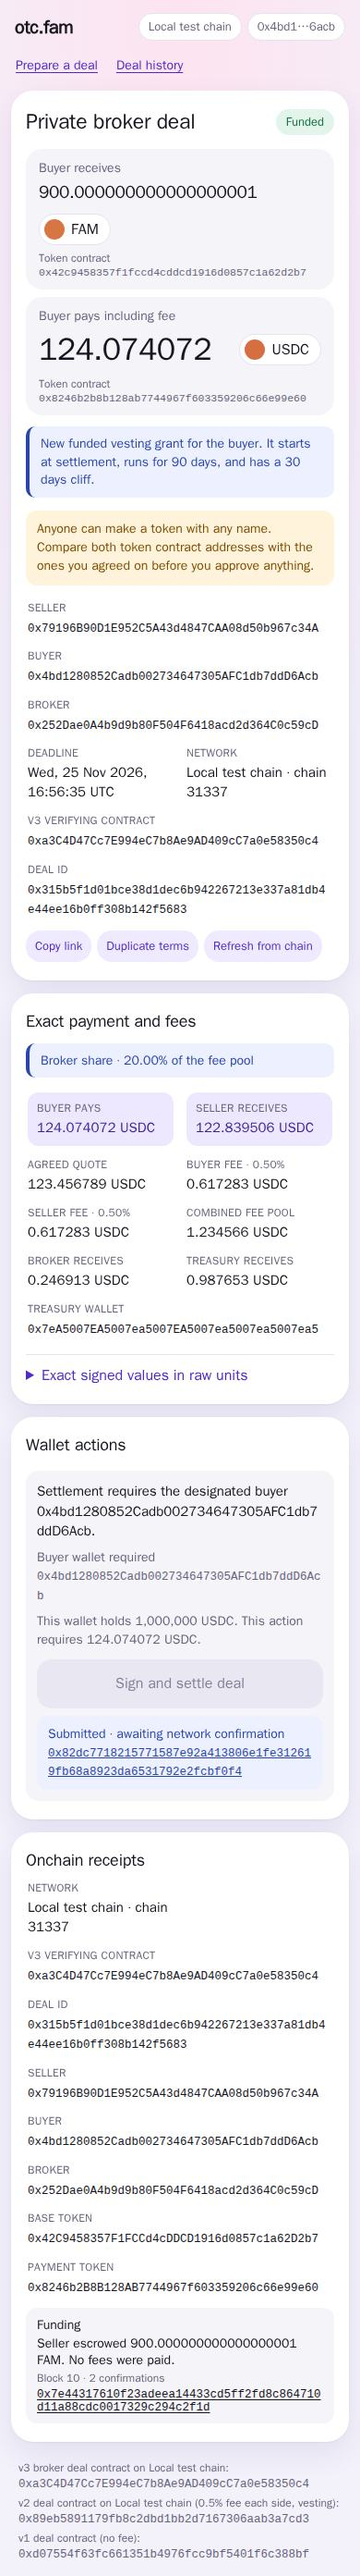
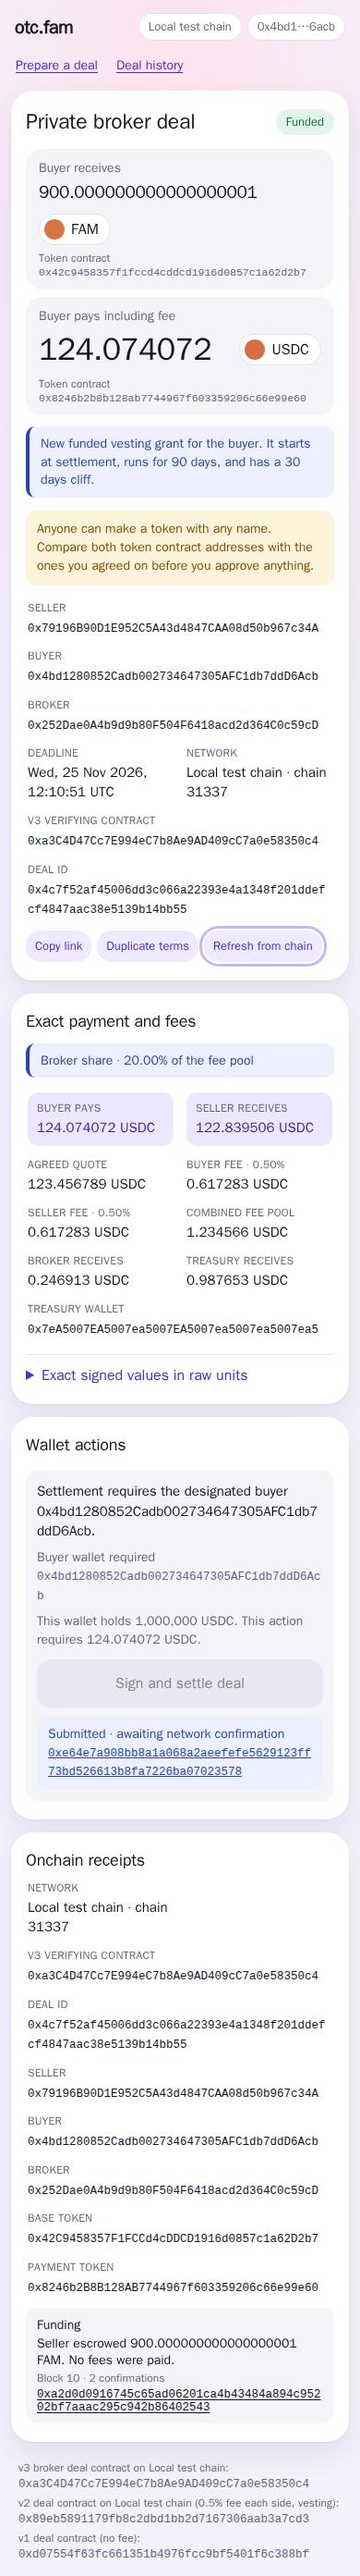
Add reproducible broker receipt and reload evidence

diff --git a/evidence/round-3/README.md b/evidence/round-3/README.md
@@ -2,21 +2,31 @@
 
 The scenarios use a local chain with independent broker, seller, buyer and stranger fixture wallets. The browser opens each counterparty’s copy of the link in a fresh profile.
 
+From the root of a clean checkout, use Node.js 22 or later with Chromium's system libraries installed.
+On Linux, use `npx playwright install --with-deps chromium` in place of the browser install if the system libraries are missing.
+The tests start their own local chain and browser. They use fixture wallets and a loopback RPC.
+
 ```sh
-npm ci
+npm ci --ignore-scripts
 npx playwright install chromium
 npm run check
-npm test
-BROKER_EVIDENCE=evidence/round-3 node --test test/v3-page.test.mjs
+OTC_TEST_BROWSER_TIMEOUT=60000 npm test
+
+capture_dir="$(mktemp -d)"
+OTC_TEST_BROWSER_TIMEOUT=60000 BROKER_EVIDENCE="$capture_dir" \
+  node --test --test-concurrency=1 test/v3-contract.test.mjs test/v3-page.test.mjs > "$capture_dir/test-output.txt" 2>&1
+cat "$capture_dir/test-output.txt"
+cat "$capture_dir/balance-deltas.md"
+printf 'Screenshots and test output are in %s\n' "$capture_dir"
 ```
 
 | Requirement | Reproduce |
 | --- | --- |
 | R3-01 seller funding and buyer settlement | Frozen Round 3 check 1 and the four browser scenarios for immediate delivery and vesting at 390px and 1440px. Creation and wallet-free buyer preview make no signing or transaction requests. |
 | R3-02 exact authority and replay | Frozen check 2 and `test/v3-contract.test.mjs`. Digest checks cover every signed field, both domain separators, the named actors, expiry, nonce reuse after refund and ERC-1271. |
-| R3-03 exact fees and rollback | Frozen checks 3 and 4 assert raw token balance deltas for the four fixtures below and no payment or fees on rejected settlement and refund. |
+| R3-03 exact fees and rollback | Frozen checks 3 and 4 verify balances. The local contract test snapshots [actual balance deltas](balance-deltas.md) for the four fee fixtures, rejected settlement and refund. |
 | R3-04 delivery and grants | Frozen checks 4 and 5, the fixed-start test and the browser tests compare escrow, direct delivery, vault backing, beneficiary claims and the settlement receipt. |
-| R3-05 role history and recovery | The browser suite covers copying and duplicating, expiry and refund, a stranger’s empty history, wrong account and chain, rejected signature with keyboard focus restored, reload while pending, and reload after settlement. |
+| R3-05 role history and recovery | The browser suite covers copying and duplicating, expiry and refund, a stranger’s empty history, wrong account and chain, rejected signature with keyboard focus restored, confirmed funding through expiry, reload during a stalled lookup, and mined replacement with an exact verified nonce. |
 
 ## Exact USDC fixture amounts
 
@@ -40,8 +50,12 @@ USDC in the fixture has six decimals. Every entry in the table is in raw units. 
 | Unrelated wallet and wrong chain | [Wallet](immediate-05-wrong-wallet-390.jpg), [chain](immediate-06-wrong-chain-390.jpg) | [Wallet](immediate-05-wrong-wallet-1440.jpg), [chain](immediate-06-wrong-chain-1440.jpg) |
 | Immediate settlement receipt after reload | [Phone](immediate-08-settled-receipt-390.jpg) | [Desktop](immediate-08-settled-receipt-1440.jpg) |
 | Vesting receipt and grant | [Phone](vesting-08-settled-receipt-390.jpg) | [Desktop](vesting-08-settled-receipt-1440.jpg) |
-| Broker history from onchain events | [Phone](vesting-10-history-settled-390.jpg) | [Desktop](vesting-10-history-settled-1440.jpg) |
+| Reload while the settlement nonce lookup is stalled | [Phone](vesting-07-reloaded-pending-390.jpg) | [Desktop](vesting-07-reloaded-pending-1440.jpg) |
+| Broker history with confirmed funding | [Phone](history-01-funded-390.jpg) | [Desktop](history-01-funded-1440.jpg) |
+| Broker history after expiry | [Phone](history-02-expired-390.jpg) | [Desktop](history-02-expired-1440.jpg) |
+| Broker history with confirmed refund | [Phone](history-03-refunded-390.jpg) | [Desktop](history-03-refunded-1440.jpg) |
+| Broker history with confirmed settlement | [Phone](vesting-10-history-settled-390.jpg) | [Desktop](vesting-10-history-settled-1440.jpg) |
 
-The [pending transaction after reload](vesting-07-reloaded-pending-390.jpg) is shown before the test mines its block. The local receipt uses a fixture explorer URL to exercise the link format.
+The funding hash stays the same when the deal expires. The history switches to the refund hash once the refund is confirmed. The pending screenshot shows the original hash after reload, with settlement disabled until the fixture mines that transaction. The screenshots use a fixture explorer URL to show the link format.
 
 [Round 3 contract and browser test output](results.txt)

diff --git a/evidence/round-3/balance-deltas.md b/evidence/round-3/balance-deltas.md
@@ -1,0 +1,16 @@
+# Measured Round 3 balance deltas
+
+Local EDR fixture. USDC uses six decimals and FAM uses 18. Positive values are credits and negative values are debits. Escrow is the V3 contract. Each row subtracts balances immediately before the named action.
+
+| Action | Quote raw | Broker bps | buyer USDC | seller USDC | broker USDC | treasury USDC | escrow USDC | buyer FAM | seller FAM | broker FAM | treasury FAM | escrow FAM |
+| --- | --- | --- | --- | --- | --- | --- | --- | --- | --- | --- | --- | --- |
+| Fund | 100000000000 | 0 | 0 | 0 | 0 | 0 | 0 | 0 | -7000000000000000000 | 0 | 0 | 7000000000000000000 |
+| Settle | 100000000000 | 0 | -100500000000 | 99500000000 | 0 | 1000000000 | 0 | 7000000000000000000 | 0 | 0 | 0 | -7000000000000000000 |
+| Fund | 100000000000 | 2000 | 0 | 0 | 0 | 0 | 0 | 0 | -7000000000000000000 | 0 | 0 | 7000000000000000000 |
+| Settle | 100000000000 | 2000 | -100500000000 | 99500000000 | 200000000 | 800000000 | 0 | 7000000000000000000 | 0 | 0 | 0 | -7000000000000000000 |
+| Fund | 123456789 | 0 | 0 | 0 | 0 | 0 | 0 | 0 | -7000000000000000000 | 0 | 0 | 7000000000000000000 |
+| Settle | 123456789 | 0 | -124074072 | 122839506 | 0 | 1234566 | 0 | 7000000000000000000 | 0 | 0 | 0 | -7000000000000000000 |
+| Fund | 123456789 | 2000 | 0 | 0 | 0 | 0 | 0 | 0 | -7000000000000000000 | 0 | 0 | 7000000000000000000 |
+| Settle | 123456789 | 2000 | -124074072 | 122839506 | 246913 | 987653 | 0 | 7000000000000000000 | 0 | 0 | 0 | -7000000000000000000 |
+| Expired settlement rejected | 123456789 | 2000 | 0 | 0 | 0 | 0 | 0 | 0 | 0 | 0 | 0 | 0 |
+| Refund expired escrow | 123456789 | 2000 | 0 | 0 | 0 | 0 | 0 | 0 | 7000000000000000000 | 0 | 0 | -7000000000000000000 |
